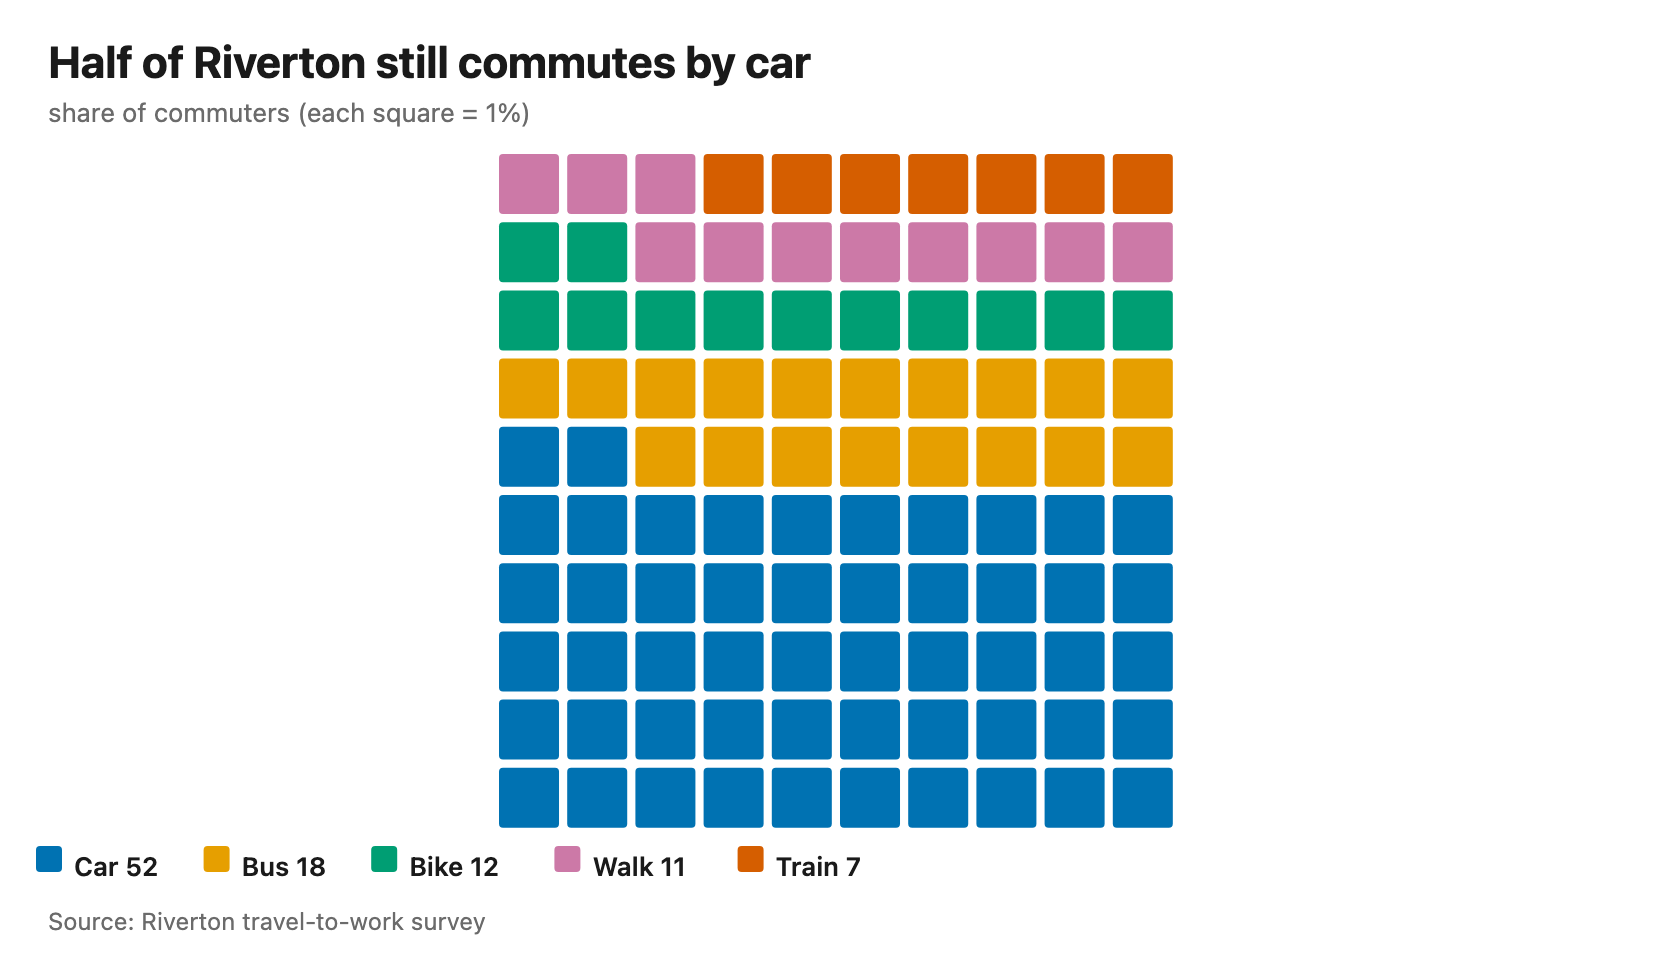
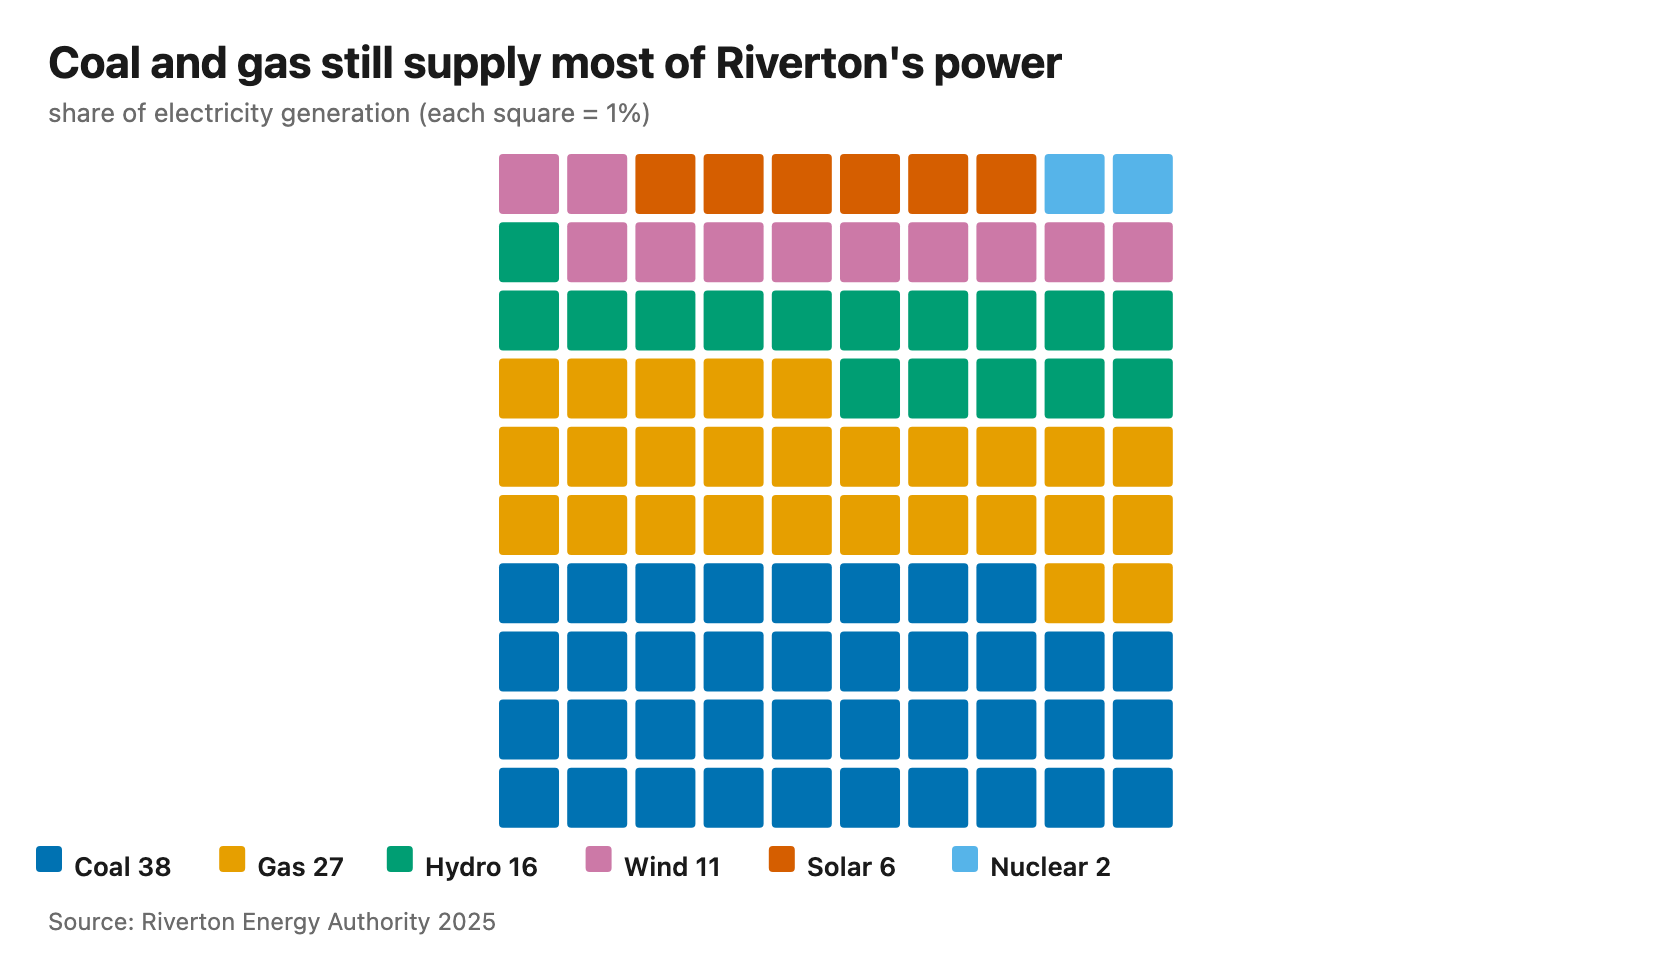
feat(chart-native): productionize waffle end-to-end (single mapper builds items + guard)

diff --git a/skills/chart-native/src/core/produce-conformance.ts b/skills/chart-native/src/core/produce-conformance.ts
@@ -19,6 +19,7 @@ import {
   checkStackedBarConformance,
   checkStackedAreaConformance,
   checkDotStripConformance,
+  checkWaffleConformance,
 } from "./conformance";
 import {
   resolveConformanceColors,
@@ -30,6 +31,7 @@ import {
   GROUPED_SERIES_COLORS,
   STACKED_SERIES_COLORS,
   STACKED_AREA_COLORS,
+  WAFFLE_CATEGORY_COLORS,
   COLORS,
   OKABE_ITO,
 } from "./tokens";
@@ -51,6 +53,7 @@ import type { GroupedConfig } from "../GroupedBarChart";
 import type { StackedConfig } from "../StackedBarChart";
 import type { StackedAreaConfig } from "../StackedAreaChart";
 import type { DotStripConfig } from "../DotStripChart";
+import type { WaffleConfig } from "../WaffleChart";
 
 export interface ConformanceRunResult {
   /** false = this type has no produce-time guard wired yet (not a pass) */
@@ -103,6 +106,7 @@ export const PRODUCE_GUARDED_TYPES: readonly string[] = [
   "stacked",
   "stacked-area",
   "dot-strip",
+  "waffle",
 ];
 
 export function runProduceConformance(
@@ -277,6 +281,26 @@ export function runProduceConformance(
             dotColor: OKABE_ITO.blue,
             hasSummaryMarker: true,
             categoryCounts: [...counts.values()],
+          },
+          { text: [COLORS.ink, COLORS.muted], bg: COLORS.bg },
+        ),
+      };
+    }
+
+    case "waffle": {
+      const cfg = config as unknown as WaffleConfig;
+      const categoryColors = cfg.items.map(
+        (_, i) => WAFFLE_CATEGORY_COLORS[i % WAFFLE_CATEGORY_COLORS.length],
+      );
+      return {
+        checked: true,
+        violations: checkWaffleConformance(
+          {
+            title: cfg.title,
+            source: cfg.source,
+            unit: cfg.unit,
+            categoryCount: cfg.items.length,
+            categoryColors,
           },
           { text: [COLORS.ink, COLORS.muted], bg: COLORS.bg },
         ),

diff --git a/skills/chart-native/tests/produce-conformance-waffle.test.ts b/skills/chart-native/tests/produce-conformance-waffle.test.ts
@@ -1,0 +1,46 @@
+import { describe, it, expect } from "bun:test";
+import {
+  runProduceConformance,
+  PRODUCE_GUARDED_TYPES,
+} from "../src/core/produce-conformance";
+
+const cfg = (items: { label: string; value: number }[]) => ({
+  title: "Half of Riverton still commutes by car",
+  source: {
+    name: "Riverton travel-to-work survey",
+    url: "https://example.org/riverton-commute",
+  },
+  unit: "share of commuters (each square = 1%)",
+  items,
+});
+
+describe("waffle produce-time conformance", () => {
+  it("is in the guarded set", () => {
+    expect(PRODUCE_GUARDED_TYPES).toContain("waffle");
+  });
+
+  it("passes the default palette (≤6 Okabe-Ito categories)", () => {
+    const r = runProduceConformance(
+      "waffle",
+      cfg([
+        { label: "Car", value: 52 },
+        { label: "Bus", value: 18 },
+        { label: "Bike", value: 12 },
+        { label: "Walk", value: 11 },
+        { label: "Train", value: 7 },
+      ]),
+    );
+    expect(r.checked).toBe(true);
+    expect(r.violations).toEqual([]);
+  });
+
+  it("flags more than six categories", () => {
+    const items = ["A", "B", "C", "D", "E", "F", "G"].map((l, i) => ({
+      label: l,
+      value: 10 + i,
+    }));
+    const r = runProduceConformance("waffle", cfg(items));
+    expect(r.checked).toBe(true);
+    expect(r.violations.join(" ")).toMatch(/> 6/);
+  });
+});

diff --git a/skills/chart-native/src/WaffleChart.tsx b/skills/chart-native/src/WaffleChart.tsx
@@ -17,7 +17,7 @@ import {
   type WaffleLayout,
 } from "./waffle-geometry";
 import { clamp01, easeOutCubic, stagger } from "./core/math";
-import { COLORS, FONT, TYPE, OKABE_ITO } from "./core/tokens";
+import { COLORS, FONT, TYPE, WAFFLE_CATEGORY_COLORS } from "./core/tokens";
 import { ChartFrame } from "./core/ChartFrame";
 import { resolveFrame, resolveFrameWithHeader } from "./core/format";
 import { layoutLegend, legendRowCount } from "./core/legend";
@@ -40,14 +40,7 @@ export interface WaffleChartProps {
   scale?: number;
 }
 
-const WAFFLE_COLORS = [
-  OKABE_ITO.blue,
-  OKABE_ITO.orange,
-  OKABE_ITO.green,
-  OKABE_ITO.purple,
-  OKABE_ITO.vermillion,
-  OKABE_ITO.skyblue,
-];
+const WAFFLE_COLORS = WAFFLE_CATEGORY_COLORS;
 
 const fmt = (v: number) => (Number.isInteger(v) ? String(v) : v.toFixed(1));
 
@@ -83,7 +76,16 @@ export function WaffleChart({
     bottom: 22 + legendRows * LEG_ROW + 18, // legend rows + source clearance
     left: 18,
   };
-  const frame = resolveFrameWithHeader(config.title, config.unit, width, height, basePad, scale, 0.62, responsive);
+  const frame = resolveFrameWithHeader(
+    config.title,
+    config.unit,
+    width,
+    height,
+    basePad,
+    scale,
+    0.62,
+    responsive,
+  );
   const padding = frame.pad;
   const ts = frame.type;
   const sc = frame.scale;

diff --git a/skills/chart-native/tests/spec-to-config-waffle.test.ts b/skills/chart-native/tests/spec-to-config-waffle.test.ts
@@ -1,0 +1,32 @@
+import { describe, it, expect } from "bun:test";
+import { specToNativeConfig, type NativeSpec } from "../src/spec-to-config";
+
+const base = {
+  title: "Half of Riverton still commutes by car",
+  source: {
+    name: "Riverton travel-to-work survey",
+    url: "https://example.org/riverton-commute",
+  },
+  unit: "share of commuters (each square = 1%)",
+};
+
+describe("specToNativeConfig — waffle (single, mapper builds items)", () => {
+  it("maps category + value rows into a pre-built items array", () => {
+    const spec: NativeSpec = {
+      ...base,
+      nativeType: "waffle",
+      data: "mode,share\nCar,52\nBus,18\nBike,12\nWalk,11\nTrain,7",
+    };
+    const { type, config } = specToNativeConfig(spec);
+    expect(type).toBe("waffle");
+    expect(config.items).toEqual([
+      { label: "Car", value: 52 },
+      { label: "Bus", value: 18 },
+      { label: "Bike", value: 12 },
+      { label: "Walk", value: 11 },
+      { label: "Train", value: 7 },
+    ]);
+    expect(config.title).toBe(base.title);
+    expect(config.unit).toBe(base.unit);
+  });
+});

diff --git a/skills/chart-native/src/spec-to-config.ts b/skills/chart-native/src/spec-to-config.ts
@@ -318,6 +318,25 @@ export const MAPPERS: Record<
       },
     };
   },
+  waffle(parsed, spec) {
+    const catCol = parsed.columns[0];
+    const valCol =
+      parsed.numericColumns[parsed.numericColumns.length - 1] ??
+      parsed.columns[parsed.columns.length - 1];
+    const items = parsed.rows.map((r) => ({
+      label: String(r[catCol]),
+      value: Number(r[valCol]),
+    }));
+    return {
+      type: "waffle",
+      config: {
+        title: spec.title,
+        source: src(spec.source),
+        unit: spec.unit,
+        items,
+      },
+    };
+  },
 };
 
 /** NativeSpec → { type, config } for the produce() path. */

diff --git a/skills/chart-native/src/core/tokens.ts b/skills/chart-native/src/core/tokens.ts
@@ -84,3 +84,16 @@ export const STACKED_AREA_COLORS = [
   OKABE_ITO.green,
   OKABE_ITO.purple,
 ] as const;
+
+// Waffle / square-pie category palette (WaffleChart.tsx), extracted so the produce
+// conformance resolver derives the SAME category colours without duplicating the
+// literal (like PIE_SLICE_COLORS). ≤6 categories (waffle.md). Every waffle TEXT
+// label (legend, tooltip) is COLORS.ink — this palette is marks only.
+export const WAFFLE_CATEGORY_COLORS = [
+  OKABE_ITO.blue,
+  OKABE_ITO.orange,
+  OKABE_ITO.green,
+  OKABE_ITO.purple,
+  OKABE_ITO.vermillion,
+  OKABE_ITO.skyblue,
+] as const;

diff --git a/skills/chart-native/src/native-types.ts b/skills/chart-native/src/native-types.ts
@@ -88,7 +88,7 @@ export const NATIVE_TYPES: readonly NativeTypeEntry[] = [
     shape: "wide",
     deferred: A_PENDING("wide"),
   },
-  { id: "waffle", family: "A", shape: "single", deferred: A_PENDING("single") },
+  { id: "waffle", family: "A", shape: "single" },
   { id: "fan", family: "A", shape: "wide", deferred: A_PENDING("wide") },
   { id: "dot-strip", family: "A", shape: "single" },
   {

diff --git a/skills/suggest-chart/eval/native-family-types.ts b/skills/suggest-chart/eval/native-family-types.ts
@@ -5,7 +5,7 @@
 export const NATIVE_FAMILY_TYPES: Record<string, string[]> = {
   "change-over-time": ["line", "stacked-area"],
   correlation: ["scatter", "connected-scatter"],
-  "part-to-whole": ["pie", "stacked"],
+  "part-to-whole": ["pie", "stacked", "waffle"],
   magnitude: ["bar", "grouped"],
   distribution: ["histogram", "beeswarm", "dot-strip"],
   ranking: ["lollipop"],

diff --git a/skills/chart-native/output-proof/waffle/NOTES-native.md b/skills/chart-native/output-proof/waffle/NOTES-native.md
@@ -1,0 +1,49 @@
+# Render-verify — waffle (Task 2, Native Batch 3)
+
+## Spec
+
+`spec-native.json` — `source,share` CSV, 6 rows (Coal 38, Gas 27, Hydro 16, Wind 11, Solar 6,
+Nuclear 2), summing to 100. 6 categories = the check's exact `>6` boundary, exercising the cap the
+guard enforces without tripping it.
+
+## Produce
+
+```
+bun scripts/produce-from-spec.mjs \
+  /Users/rmdms/Sites/Professional/atelier/skills/chart-native/output-proof/waffle/spec-native.json \
+  /Users/rmdms/Sites/Professional/atelier/skills/chart-native/output-proof/waffle static
+```
+
+```
+[produce waffle] conformance: OK (0 violations).
+```
+
+The mapper picked `source` as the category column (first column) and `share` as the value column
+(sole numeric column), building `config.items = [{label:"Coal",value:38}, …]` from the CSV rows —
+NOT the `rows`/`fields` shape the other single-shape mappers pass through.
+
+## Visual observations (Read of `static.png`)
+
+- **A 10×10 grid of 100 square cells**, filled bottom→top in category order (Coal at the bottom,
+  Nuclear at the top), matching the "container fills" motion grammar described in `waffle.md`.
+- **6 distinct Okabe-Ito hues**, one per category, in the exact `WAFFLE_CATEGORY_COLORS` order:
+  Coal = blue (`#0072B2`), Gas = orange/gold (`#E69F00`), Hydro = green (`#009E73`), Wind =
+  purple/magenta (`#CC79A7`), Solar = vermillion (`#D55E00`), Nuclear = sky blue (`#56B4E9`). Cell
+  counts visually match the data: 38 blue, 27 gold, 16 green, 11 magenta, 6 burnt-orange, 2 sky-blue.
+- **Legend in ink**: 6 swatch+label pairs ("Coal 38", "Gas 27", "Hydro 16", "Wind 11", "Solar 6",
+  "Nuclear 2") in one row below the grid, all label text in `COLORS.ink` (black), not the category
+  colour — confirms the "every waffle TEXT label is ink" comment in `WaffleChart.tsx`/`tokens.ts`.
+- **Unit subtitle present**: "share of electricity generation (each square = 1%)" renders directly
+  under the title, muted grey — states what one square represents, satisfying the guard's
+  `missing unit` rule.
+- **Title unclipped**: "Coal and gas still supply most of Riverton's power" renders on one full line,
+  no truncation or overflow.
+- **Source line**: "Source: Riverton Energy Authority 2025" at the bottom-left.
+
+No visual defects found — grid, palette, legend, unit, title, and source all render as the KB and
+guard describe.
+
+## Concern
+
+None found specific to waffle. (General caveat carried over from the project's known backlog: the
+suggester eval remains self-referential; unrelated to this task.)

diff --git a/skills/suggest-chart/SKILL.md b/skills/suggest-chart/SKILL.md
@@ -139,11 +139,11 @@ hover). A plain static chart stays `dw-chart`.
 Emit a `NativeSpec` instead:
 `{ producer: "chart-native", nativeType, title, source{name,url}, unit, data (CSV), sort?, orientation?,
 directLabel?, highlight? }`. The mapped native families are **bar/column, line, scatter, pie, grouped, stacked,
-stacked-area, histogram, lollipop, connected-scatter, beeswarm, dot-strip** (`spec-to-config.ts`); for any type NOT in this list
+stacked-area, histogram, lollipop, connected-scatter, beeswarm, dot-strip, waffle** (`spec-to-config.ts`); for any type NOT in this list
 the native producer exits with `FALLBACK_TO_DW` and you route to `dw-chart` instead. Produce with
 `bun skills/chart-native/scripts/produce-from-spec.mjs <nativeSpec.json> <outDir> [all|static]`
 → static PNG + interactive HTML + 3 mp4s. `nativeType` uses the chart-native keys (`bar`, `line`,
-`scatter`, `pie`, `grouped`, `stacked`, `stacked-area`, `histogram`, `lollipop`, `connected-scatter`, `beeswarm`, `dot-strip`); `highlight` is
+`scatter`, `pie`, `grouped`, `stacked`, `stacked-area`, `histogram`, `lollipop`, `connected-scatter`, `beeswarm`, `dot-strip`, `waffle`); `highlight` is
 the category to accent; `directLabel` is the line's series label.
 `grouped` expects a **wide CSV**: the first column is the category, and every following numeric column
 is a series (≤3 — beyond that use small multiples). Example: `region,urban,rural` then a row like
@@ -168,6 +168,10 @@ grouping column** (≤5 groups → colours) + an optional per-point label column
 pre-aggregated) — shows the spread of individual values within a few groups, one horizontal strip per
 category plus a mean marker; a single category with only one observation per row is still valid, but the
 type earns its keep when several rows share a category.
+`waffle` expects **category + one value, ≤6 categories** (a part-to-whole composition made countable,
+one square per unit) — group any tail beyond 6 into "Other"; `unit` must name what one square represents
+(e.g. "each square = 1%"), it renders as the subtitle. Not for change over time (use `stacked-area`)
+or for more than ~6 slices (use `pie` or `bar`).
 
 ### map-dw (static choropleth map) — default map path
 
